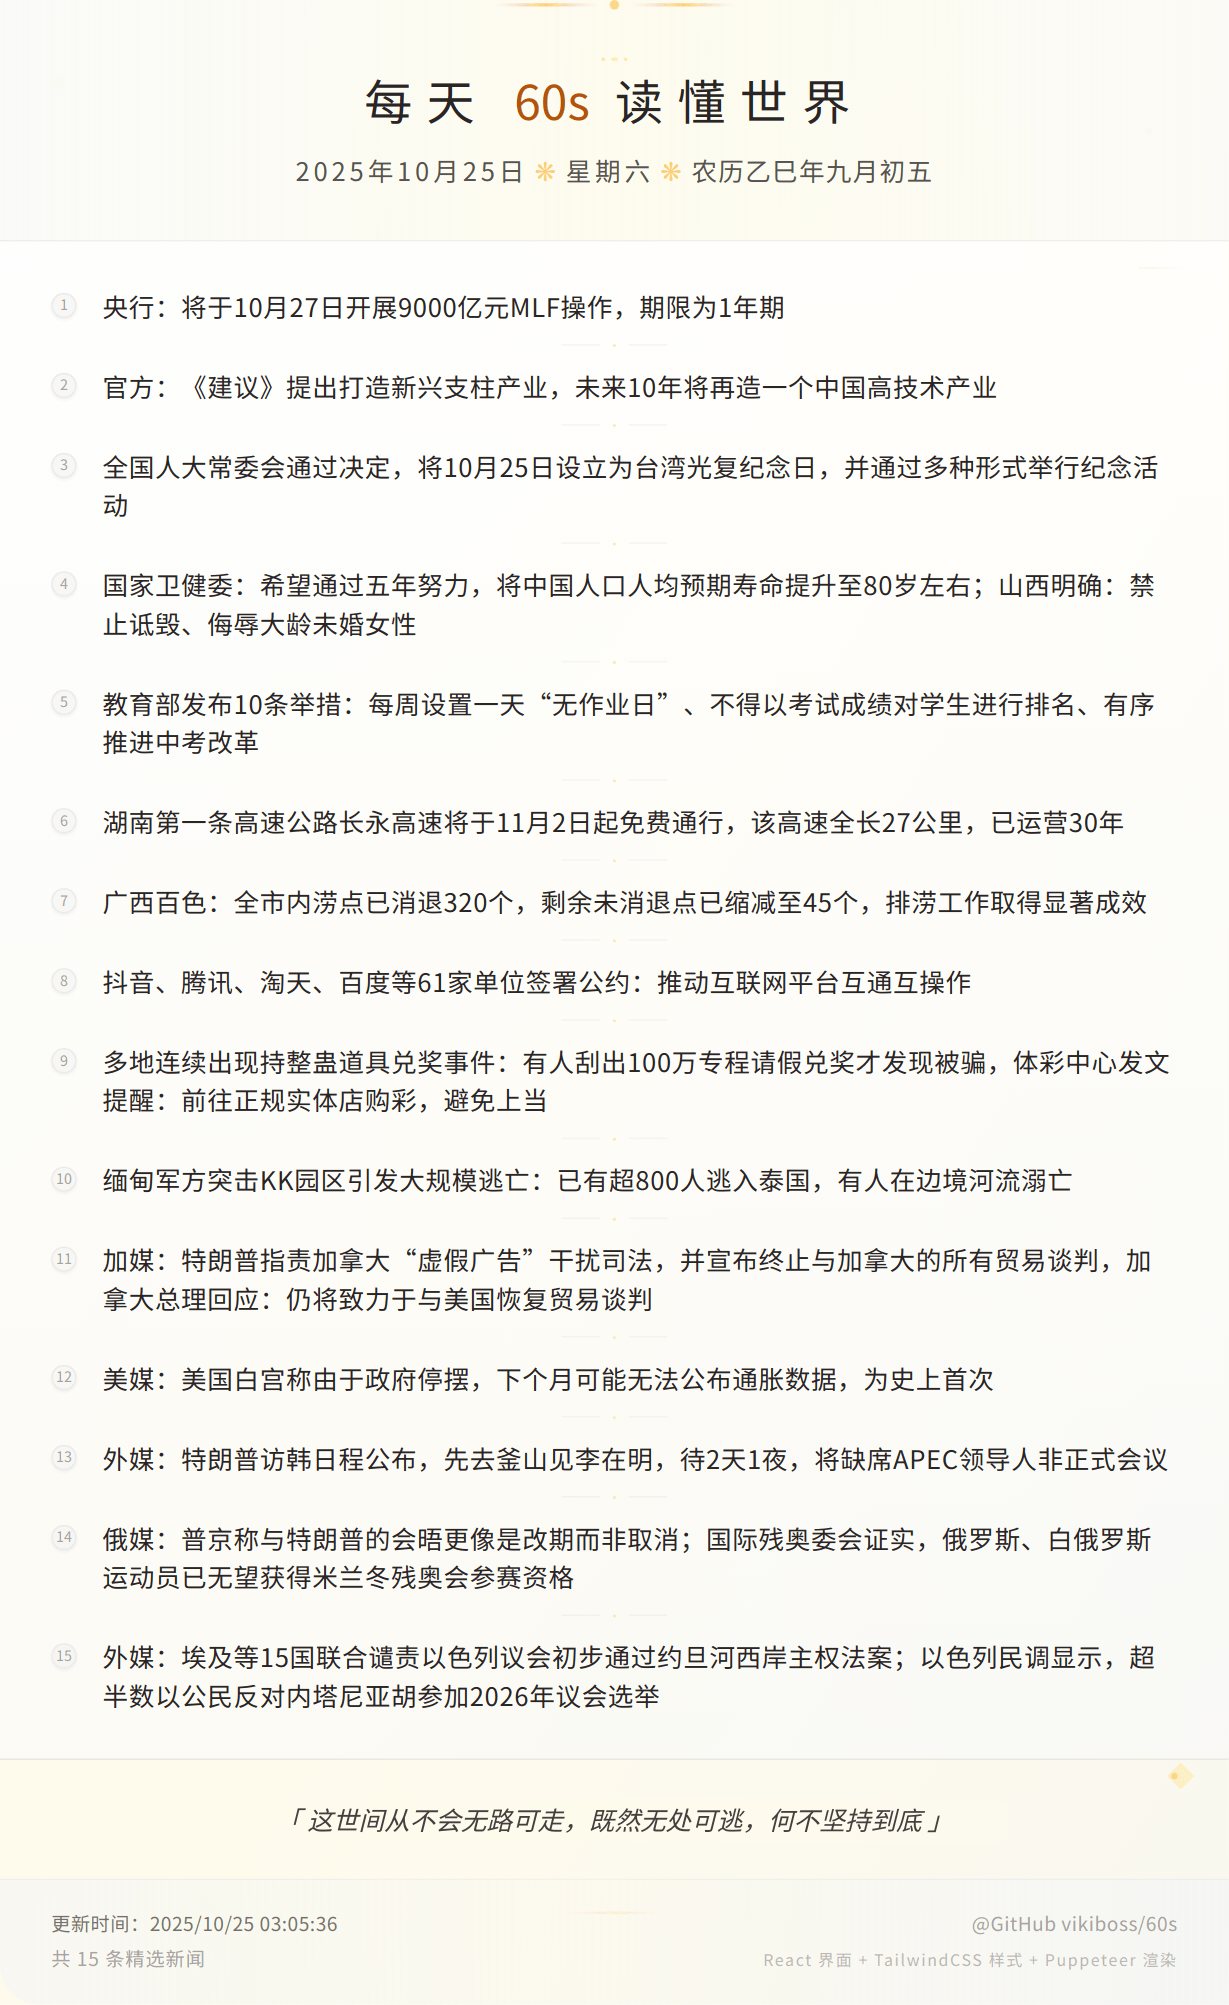
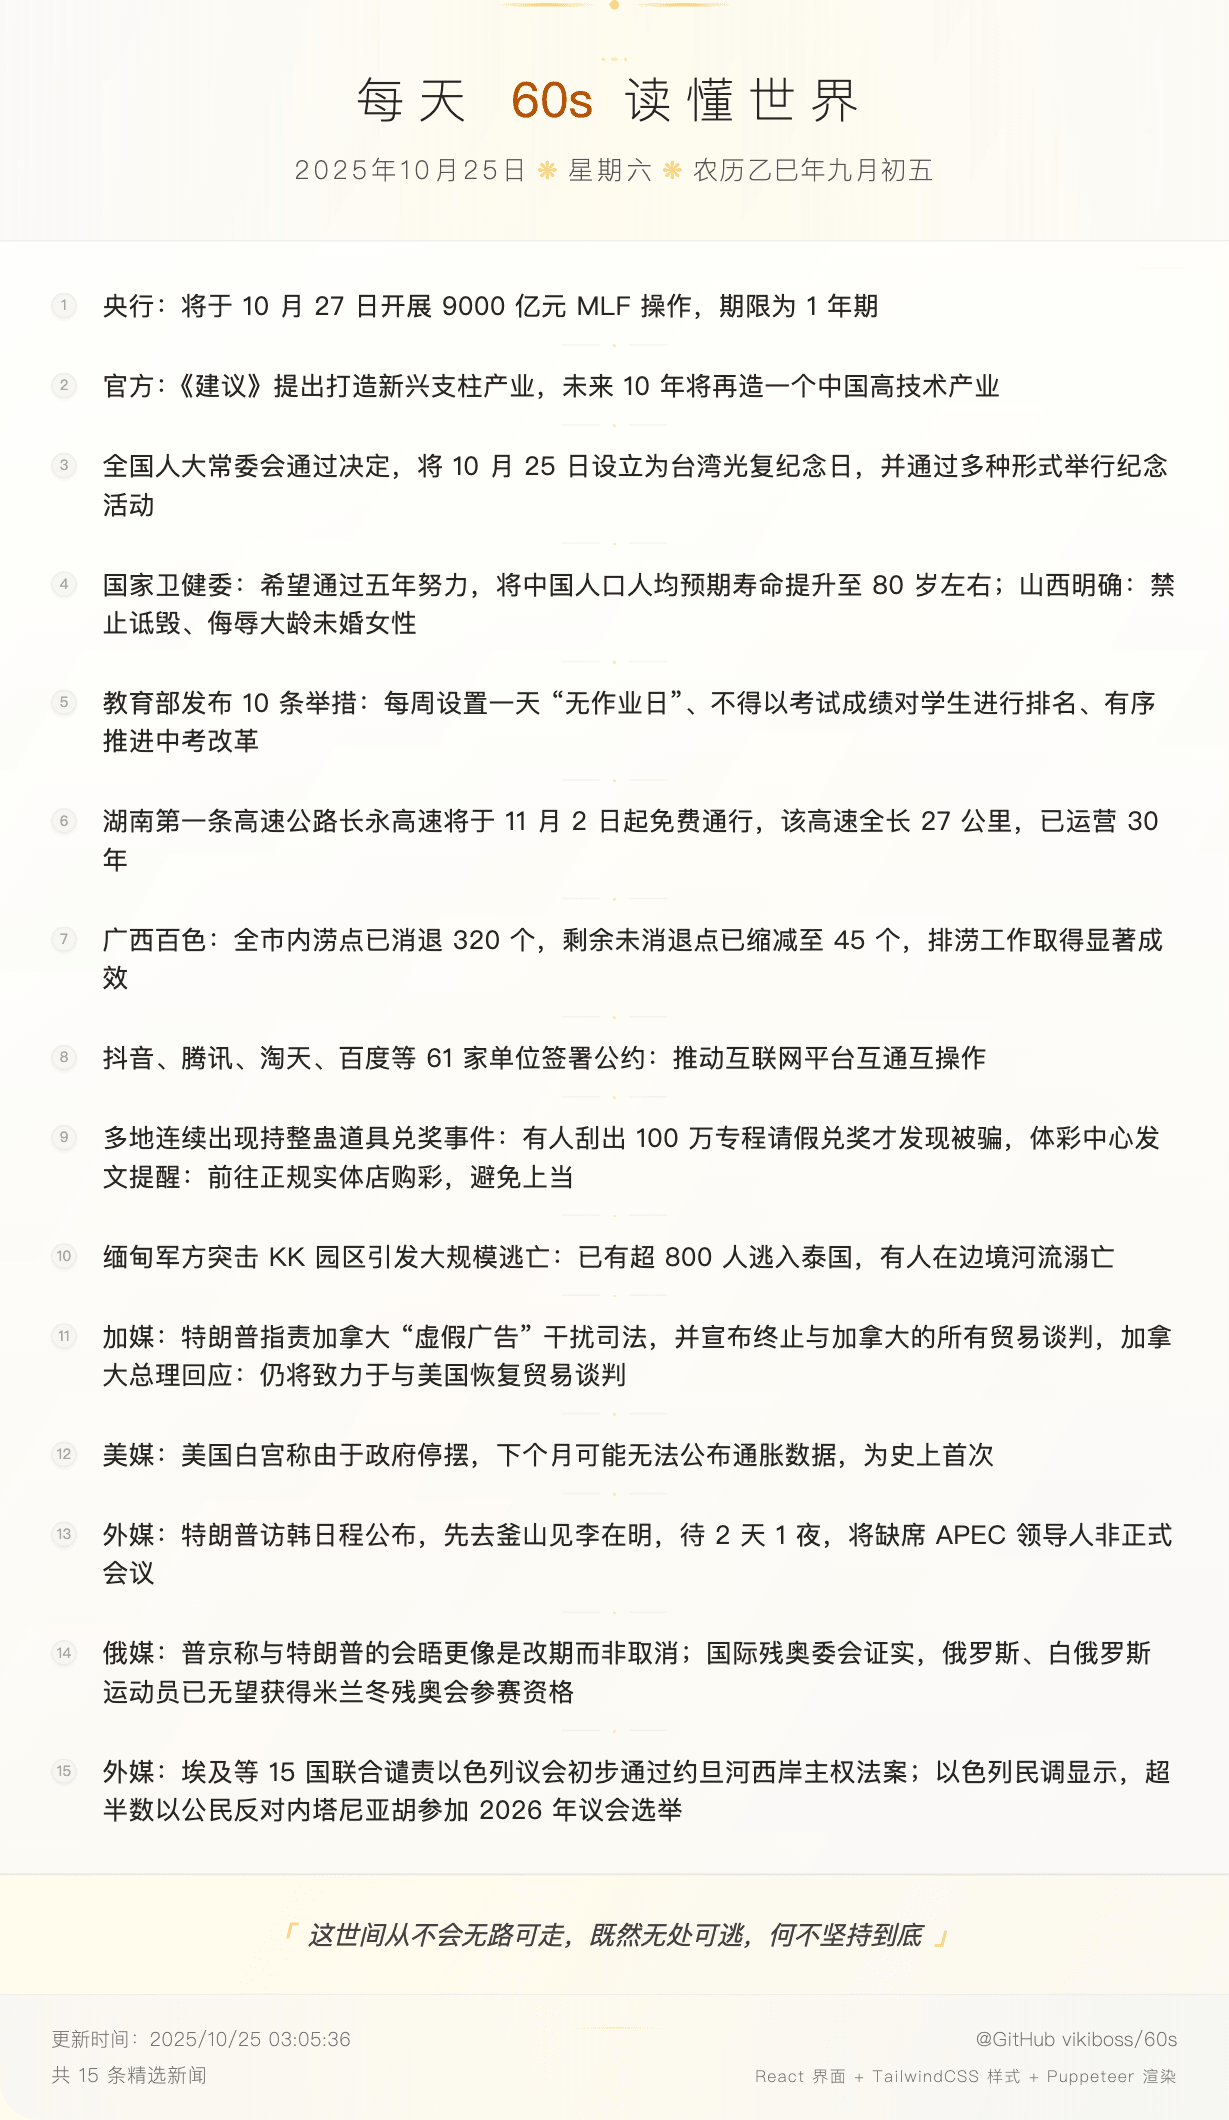
chore: 优化渲染效果

diff --git a/src/components/news.tsx b/src/components/news.tsx
@@ -90,16 +90,14 @@ export function NewsCard({ data }: { data: NewsData }) {
       </div>
 
       <div className='relative bg-amber-50/50 border-t border-stone-300/50 px-8 py-6'>
-        <div className='absolute top-0 right-6 w-3 h-3 bg-amber-200/40 transform rotate-45 translate-y-1'></div>
-        <div className='absolute top-2 right-8 w-1 h-1 bg-amber-300/60 rounded-full'></div>
-
         <div className='text-center relative'>
           <div className='relative inline-block'>
             <p className='text-stone-700 leading-relaxed text-center px-6 italic relative z-10'>
-              「 {data.tip} 」
+              <span className='font-bold text-amber-600/36 mx-2'>「</span>
+              {data.tip}
+              <span className='font-bold text-amber-600/36 mx-2'>」</span>
             </p>
-
-            <div className='absolute inset-0 bg-amber-50/30 rounded-lg transform rotate-0.5 scale-105 -z-0'></div>
+            <div className='absolute inset-0 bg-amber-50/30 rounded-lg transform rotate-0.5 scale-105 -z-10'></div>
           </div>
         </div>
       </div>
@@ -110,12 +108,12 @@ export function NewsCard({ data }: { data: NewsData }) {
 
           <div className='text-stone-500 space-y-1.5 font-light'>
             <div className='tracking-wide'>更新时间：{localeTime(data.created_at)}</div>
-            <div className='text-stone-400 tracking-wider'>共 {data.news.length} 条精选新闻</div>
+            <div className='tracking-wider'>共 {data.news.length} 条精选新闻</div>
           </div>
 
-          <div className='text-right text-stone-400 space-y-1.5 font-light'>
+          <div className='text-stone-500 text-right space-y-1.5 font-light'>
             <div className='tracking-wide'>@GitHub vikiboss/60s</div>
-            <div className='text-[10px] tracking-widest opacity-75'>
+            <div className='text-[10px] tracking-widest'>
               React 界面 + TailwindCSS 样式 + Puppeteer 渲染
             </div>
           </div>

diff --git a/src/update-60s.tsx b/src/update-60s.tsx
@@ -5,7 +5,15 @@ import { WECHAT_ACCOUNTS } from './constants'
 import { storage, type SavedData } from './services/storage'
 import { parsePostViaLLM as parsePostViaLLM } from './services/parser'
 import { parsePostViaLLM as parsePostViaParser } from './services/parser'
-import { debug, getInputArgValue, isValidDateFormat, localeDate, localeTime, log } from './utils'
+import {
+  debug,
+  formatSavedData,
+  getInputArgValue,
+  isValidDateFormat,
+  localeDate,
+  localeTime,
+  log,
+} from './utils'
 
 update60s().catch(error => {
   console.error('Error updating 60s:', error)
@@ -41,7 +49,7 @@ export async function update60s(): Promise<void> {
 
     log(`Data of [${date}] found, generating image...`)
 
-    await saveImage(date, data)
+    await saveImage(data)
 
     process.exit(0)
   }
@@ -126,8 +134,8 @@ export async function update60s(): Promise<void> {
 
     debug('data', data)
 
-    await storage.saveData(date, data)
-    await saveImage(date, data)
+    await storage.saveData(data)
+    await saveImage(data)
 
     log('Update 60s completed')
 
@@ -135,9 +143,9 @@ export async function update60s(): Promise<void> {
   }
 }
 
-async function saveImage(date: string, data: SavedData): Promise<void> {
+async function saveImage(data: SavedData): Promise<void> {
   await renderer.prepare()
-  const buffer = await renderer.render(<NewsCard data={data} />)
+  const buffer = await renderer.render(<NewsCard data={formatSavedData(data)} />)
   await renderer.destroy()
   await storage.saveImage(data.date, buffer)
 }

diff --git a/src/services/renderer.tsx b/src/services/renderer.tsx
@@ -1,3 +1,5 @@
+import fs from 'node:fs/promises'
+import path from 'node:path'
 import { log } from '../utils'
 import { Suspense } from 'react'
 import { IS_IN_CI } from '../constants'
@@ -89,22 +91,9 @@ class RenderService {
   }
 
   async wrapHtmlAndUnocss(html: string): Promise<string> {
-    return `
-    <html lang="zh-CN">
-    <head>
-      <meta charset="UTF-8" />
-      <link rel="stylesheet" href="https://unpkg.com/@unocss/reset@66.5.4/tailwind.css"></link>
-      <script src="https://unpkg.com/@unocss/runtime@66.5.4/uno.global.js"></script>
-      <style>
-        body {
-          font-family: "Noto Sans CJK SC", "Noto Sans SC", "Source Han Sans SC", "PingFang SC", "Microsoft YaHei", sans-serif;
-        }
-      </style>
-    </head>
-    <body style="height: 100vh; width: 100vw;">
-      <div id="main" style="display: inline-flex;">${html}</div>
-    </body>
-    </html>`
+    const __dirname = new URL('.', import.meta.url).pathname
+    const template = await fs.readFile(path.join(__dirname, 'template.html'), 'utf-8')
+    return template.replace('__HTML__', html)
   }
 }
 

diff --git a/test/react.tsx b/test/react.tsx
@@ -8,7 +8,7 @@ const Card = (props: { data: string[]; image: string }) => {
 
   return (
     <div className='text-xs size-full'>
-      <div>list</div>
+      <div>List</div>
       <pre>{JSON.stringify(fetchedData, null, 2)}</pre>
       <div>
         {props.data.map((item, idx) => (
@@ -27,7 +27,9 @@ const fetchData = async () => await (await fetch('https://60s.viki.moe/v2/60s'))
 async function renderReactComponent() {
   await renderer.prepare()
 
+  const data = await fetchData()
   const buffer = await renderer.render(<NewsCard data={data} />)
+  // const buffer = await renderer.render(<Card data={data} image={data.image} />)
 
   fs.writeFileSync('test/screenshot.png', buffer)
 

diff --git a/src/services/storage.ts b/src/services/storage.ts
@@ -27,11 +27,11 @@ export class StorageService {
     return fileExistsSync(this.getImageFilePath(date))
   }
 
-  async saveData(date: string, data: SavedData): Promise<void> {
-    const filePath = this.getDataFilePath(date)
+  async saveData(data: SavedData): Promise<void> {
+    const filePath = this.getDataFilePath(data.date)
     const formattedData = formatSavedData(data)
     await writeJsonFile(filePath, formattedData)
-    log(`Data of [${date}] saved`)
+    log(`Data of [${data.date}] saved`)
   }
 
   async saveImage(date: string, image: Buffer): Promise<void> {

diff --git a/src/services/template.html b/src/services/template.html
@@ -1,0 +1,16 @@
+<html lang="zh-CN">
+  <head>
+    <meta charset="UTF-8" />
+    <link rel="stylesheet" href="https://unpkg.com/@unocss/reset@66.5.4/tailwind.css" />
+    <script src="https://unpkg.com/@unocss/runtime@66.5.4/uno.global.js"></script>
+    <style>
+      body {
+        font-family: 'Noto Sans CJK SC', 'Noto Sans SC', 'Source Han Sans SC', 'PingFang SC',
+          'Microsoft YaHei', sans-serif;
+      }
+    </style>
+  </head>
+  <body class="size-screen">
+    <div id="main" class="inline-flex">__HTML__</div>
+  </body>
+</html>

diff --git a/src/services/parser.ts b/src/services/parser.ts
@@ -1,4 +1,3 @@
-import pangu from 'pangu'
 import { load } from 'cheerio'
 import { debug } from '../utils'
 import { USER_AGENT } from '../constants'
